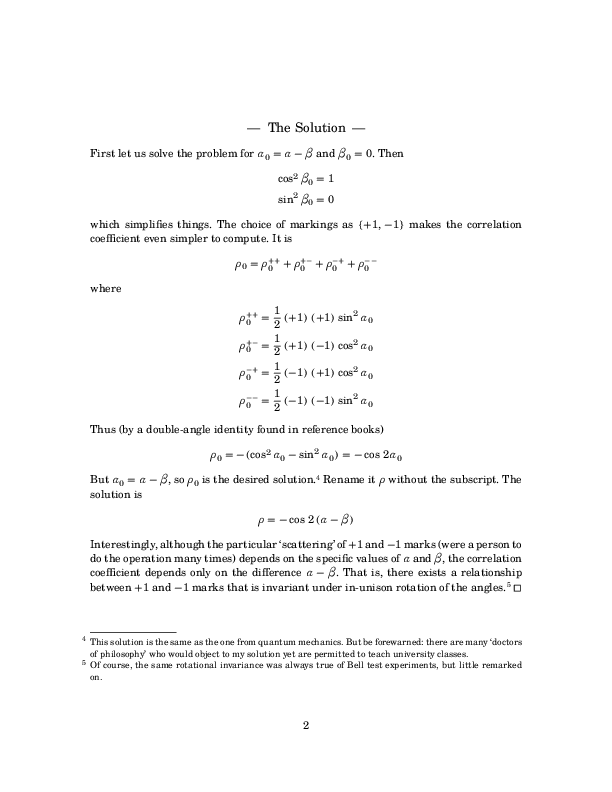
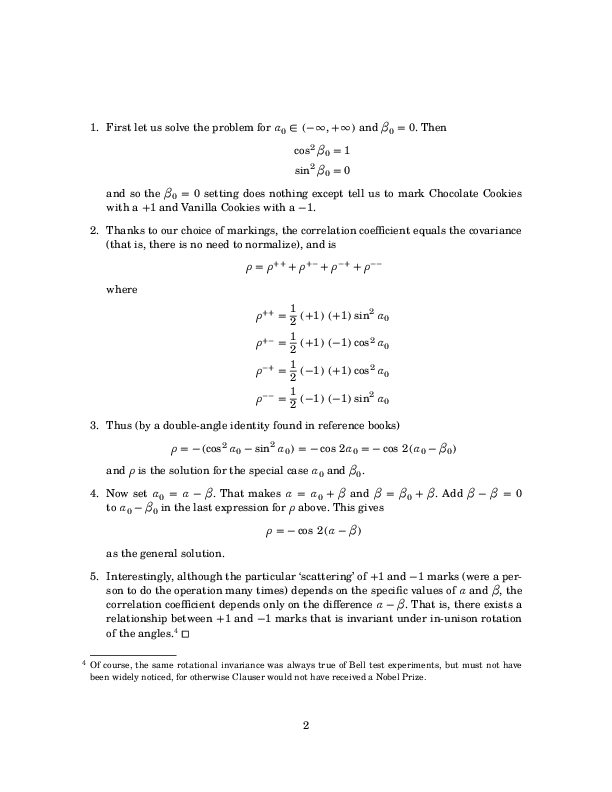
Revise the proof for Cookies.

diff --git a/Cookies-for-Alice-and-Bob/Cookies-for-Alice-and-Bob.tex b/Cookies-for-Alice-and-Bob/Cookies-for-Alice-and-Bob.tex
@@ -90,58 +90,69 @@
 \item Calculate the correlation coefficient of the numbers written on
   the cookie boxes, as a function of~$\alpha-\beta$.\footnote{The
     answer from quantum mechanics is~$-\!\cos\,2(\alpha-\beta)$, and
-    physicists assure us only quantum mechanical systems can achieve
-    this solution. According to physicists, even logically equivalent
-    systems cannot do so, because they have no entangled superposition
-    states nor action at a distance!}
+    physicists have assured us that only by traversal of states in a
+    Hilbert space can one derive this answer. Of course, this claim
+    defies the principles of mathematics and is preposterous.}
 \stopitemize
 
 \subject{The Solution}
 
-First let us solve the problem for $\alpha_0=\alpha-\beta$
-and~$\beta_0=0$. Then
-\startformula
-  \startmathalignment [n=2, align={right,left}]
-    \NC\cos^2\beta_0\NC= 1 \NR
-    \NC\sin^2\beta_0\NC= 0 \NR
-  \stopmathalignment
-\stopformula
-which simplifies things. The choice of markings as $\{+1,-1\}$ makes
-the correlation coefficient even simpler to compute. It is
-\startformula
-\rho_0=\rho_0^{++}+\rho_0^{+-}+\rho_0^{-+}+\rho_0^{--}
-\stopformula
-where
-\startformula
-  \startmathalignment [n=2, align={right,left}]
-    % The roll for Bob always succeeds for Chocolate, always fails for
-    % Vanilla.
-    \NC\rho_0^{++}\NC=\frac{1}{2}(+1)(+1)\sin^2\alpha_0\NR % Vanilla/Choc
-    \NC\rho_0^{+-}\NC=\frac{1}{2}(+1)(-1)\cos^2\alpha_0\NR % Choc/Vanilla
-    \NC\rho_0^{-+}\NC=\frac{1}{2}(-1)(+1)\cos^2\alpha_0\NR % Vanilla/Choc
-    \NC\rho_0^{--}\NC=\frac{1}{2}(-1)(-1)\sin^2\alpha_0\NR % Choc/Vanilla
-  \stopmathalignment
-\stopformula
-Thus (by a double-angle identity found in reference books)
-\startformula
-  \rho_0=-(\cos^2\alpha_0-\sin^2\alpha_0)=-\cos\,2\alpha_0
-\stopformula
-But~$\alpha_0=\alpha-\beta$, so~$\rho_0$ is the desired
-solution.\footnote{This solution is the same as the one from quantum
-  mechanics. But be forewarned: there are many ‘doctors of philosophy’
-  who would object to my solution yet are permitted to teach
-  university classes.}  Rename it~$\rho$ without the subscript. The
-solution is
+\startitemize[n]
+\item First let us solve the problem
+  for~$\alpha_0\in(-\infty,+\infty)$ and~$\beta_0=0$. Then
+  \startformula
+    \startmathalignment [n=2, align={right,left}]
+      \NC\cos^2\beta_0\NC= 1 \NR
+      \NC\sin^2\beta_0\NC= 0 \NR
+    \stopmathalignment
+  \stopformula
+  and so the~$\beta_0=0$ setting does nothing except tell us to mark
+  Chocolate Cookies with a~$+1$ and Vanilla Cookies with a~$-1$.
+
+\item Thanks to our choice of markings, the correlation coefficient
+  equals the covariance (that is, there is no need to normalize), and
+  is
+  \startformula
+    \rho=\rho^{++}+\rho^{+-}+\rho^{-+}+\rho^{--}
+  \stopformula
+  where
+  \startformula
+    \startmathalignment [n=2, align={right,left}]
+      % The roll for Bob always succeeds for Chocolate, always fails for
+      % Vanilla.
+      \NC\rho^{++}\NC=\frac{1}{2}(+1)(+1)\sin^2\alpha_0\NR % Vanilla/Choc
+      \NC\rho^{+-}\NC=\frac{1}{2}(+1)(-1)\cos^2\alpha_0\NR % Choc/Vanilla
+      \NC\rho^{-+}\NC=\frac{1}{2}(-1)(+1)\cos^2\alpha_0\NR % Vanilla/Choc
+      \NC\rho^{--}\NC=\frac{1}{2}(-1)(-1)\sin^2\alpha_0\NR % Choc/Vanilla
+    \stopmathalignment
+  \stopformula
+
+\item Thus (by a double-angle identity found in reference books)
+  \startformula
+    \rho=-(\cos^2\alpha_0-\sin^2\alpha_0)=-\cos\,2\alpha_0=-\cos\,2(\alpha_0-\beta_0)
+  \stopformula
+  and~$\rho$ is the solution for the special case~$\alpha_0$
+  and~$\beta_0$.
+
+\item Now set~$\alpha_0=\alpha-\beta$. That
+  makes~$\alpha=\alpha_0+\beta$
+  and~$\beta=\beta_0+\beta$. Add~$\beta-\beta=0$ to~$\alpha_0-\beta_0$
+  in the last expression for~$\rho$ above. This gives
 \startformula
   \rho=-\cos\,2(\alpha-\beta)
 \stopformula
-Interestingly, although the particular ‘scattering’ of~$+1$ and~$-1$
-marks (were a person to do the operation many times) depends on the
-specific values of~$\alpha$ and~$\beta$, the correlation coefficient
-depends only on the difference~$\alpha-\beta$. That is, there exists a
-relationship between~$+1$ and~$-1$ marks that is invariant under
-in-unison rotation of the angles.\footnote{Of course, the same rotational
-  invariance was always true of Bell test experiments, but little
-  remarked on.}~$\square$
+as the general solution.
+
+\item Interestingly, although the particular ‘scattering’ of~$+1$
+  and~$-1$ marks (were a person to do the operation many times)
+  depends on the specific values of~$\alpha$ and~$\beta$, the
+  correlation coefficient depends only on the
+  difference~$\alpha-\beta$. That is, there exists a relationship
+  between~$+1$ and~$-1$ marks that is invariant under in-unison
+  rotation of the angles.\footnote{Of course, the same rotational
+    invariance was always true of Bell test experiments, but must not
+    have been widely noticed, for otherwise Clauser would not have
+    received a Nobel Prize.}~$\square$
+\stopitemize
 
 \stoptext
